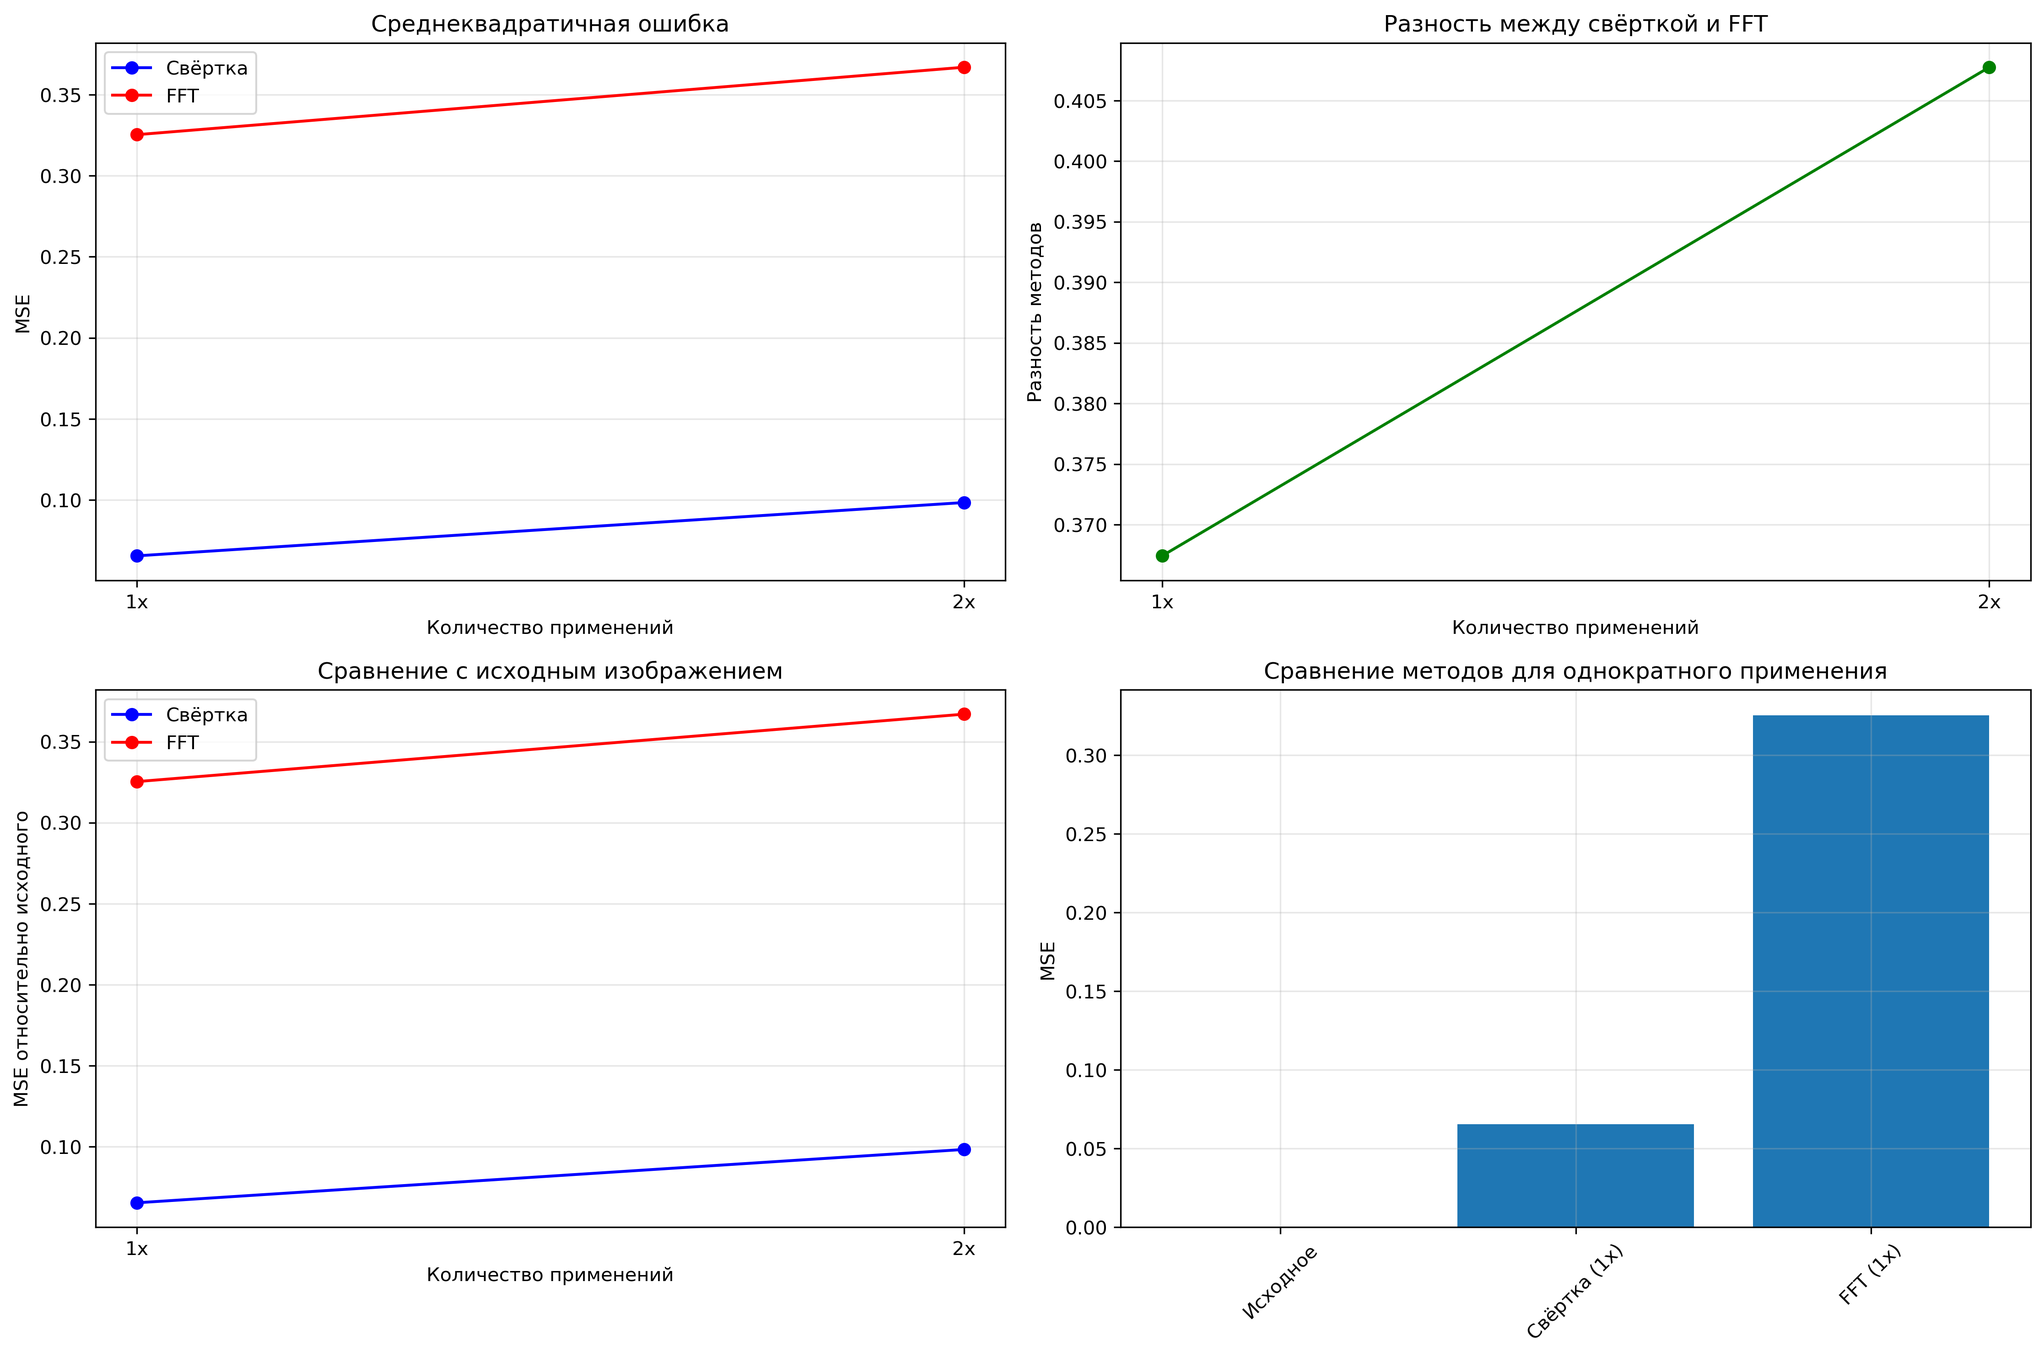
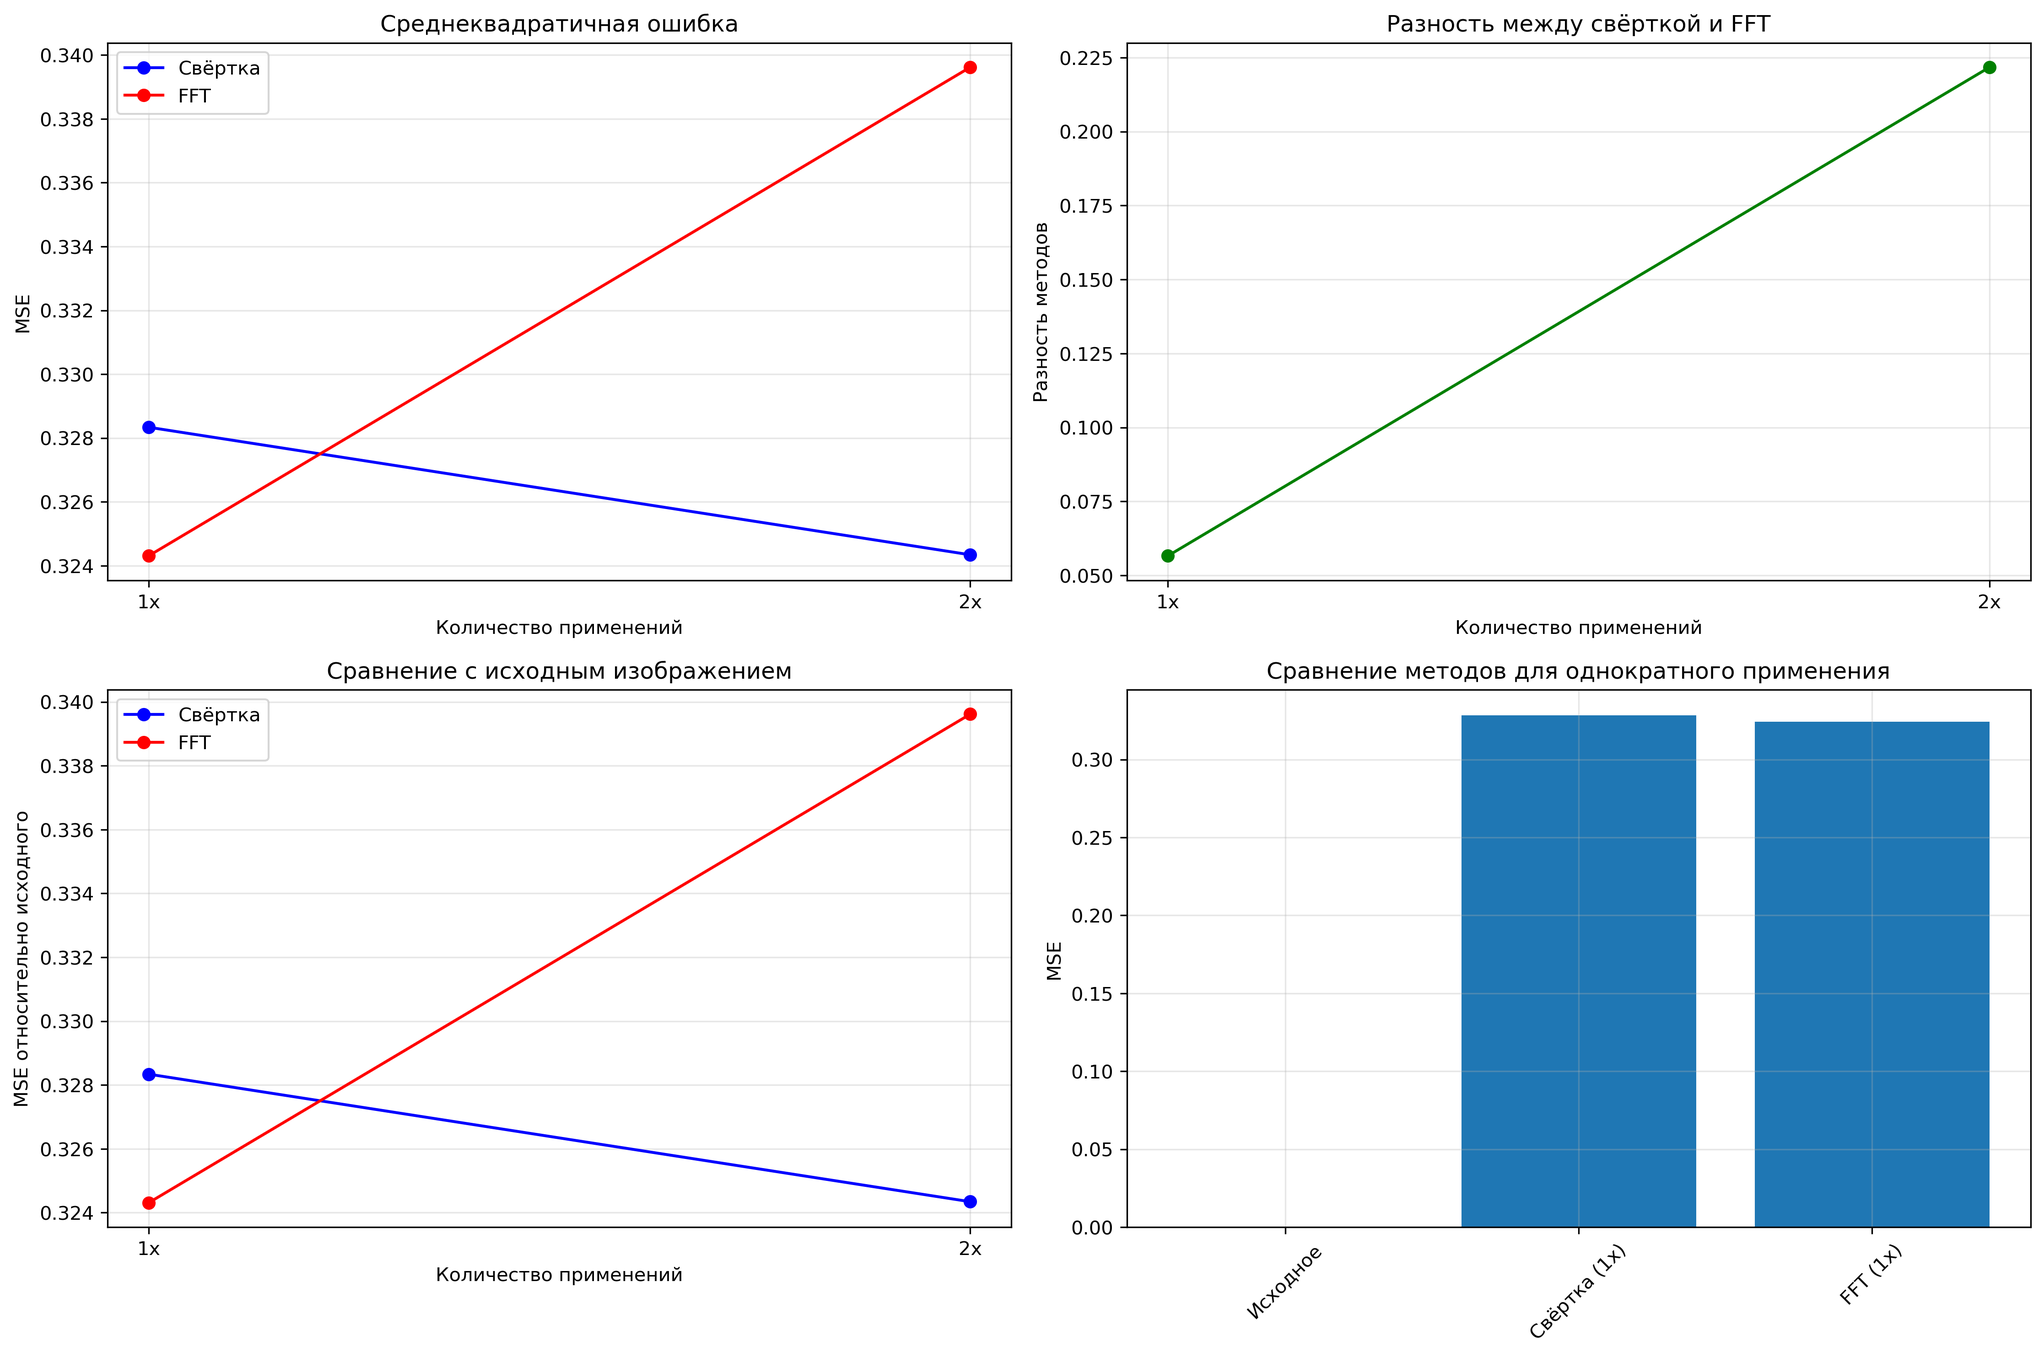
Lab 6 with small optimus

diff --git a/frequency_methods/lab6/python/task2_image_blurring.py b/frequency_methods/lab6/python/task2_image_blurring.py
@@ -64,9 +64,17 @@ def create_gaussian_kernel(n):
 def image_blurring():
     """Размытие изображений"""
     
-    # Создаем тестовое изображение
-    print("Создание тестового изображения...")
-    original_image = create_test_image()
+    # Загружаем готовое изображение
+    print("Загрузка исходного изображения...")
+    try:
+        from PIL import Image
+        img_path = '../images/task2/original_image.png'
+        img_pil = Image.open(img_path).convert('L')
+        original_image = np.array(img_pil) / 255.0
+        print(f"Загружено изображение размером {original_image.shape}")
+    except FileNotFoundError:
+        print("Файл original_image.png не найден, создаем тестовое изображение...")
+        original_image = create_test_image()
     
     # Сохраняем исходное изображение
     plt.figure(figsize=(8, 6))
@@ -113,11 +121,11 @@ def image_blurring():
     gaussian_results = {}
     
     for n in n_values:
-        # Блочное размытие
-        block_results[n] = ndimage.convolve(original_image, block_kernels[n], mode='constant', cval=0)
+        # Блочное размытие (используем 'wrap' для циклической свертки, аналогичной FFT)
+        block_results[n] = ndimage.convolve(original_image, block_kernels[n], mode='wrap')
         
         # Гауссовское размытие
-        gaussian_results[n] = ndimage.convolve(original_image, gaussian_kernels[n], mode='constant', cval=0)
+        gaussian_results[n] = ndimage.convolve(original_image, gaussian_kernels[n], mode='wrap')
     
     # Визуализация результатов свёртки
     plt.figure(figsize=(15, 10))
@@ -151,39 +159,28 @@ def image_blurring():
     fft_original = fft2(original_image)
     
     for n in n_values:
-        # Создаем ядра того же размера, что и изображение
+        # Создаем ядра того же размера, что и изображение (для циклической свертки)
         h, w = original_image.shape
-        k, l = n, n
         
-        # Создаем расширенные ядра
-        block_kernel_extended = np.zeros((h + k - 1, w + l - 1))
-        gaussian_kernel_extended = np.zeros((h + k - 1, w + l - 1))
+        # Создаем ядра размером с изображение
+        block_kernel_full = np.zeros((h, w))
+        gaussian_kernel_full = np.zeros((h, w))
         
-        # Размещаем ядра в центре
-        start_h = (h + k - 1 - k) // 2
-        start_w = (w + l - 1 - l) // 2
-        
-        block_kernel_extended[start_h:start_h+k, start_w:start_w+l] = block_kernels[n]
-        gaussian_kernel_extended[start_h:start_h+k, start_w:start_w+l] = gaussian_kernels[n]
+        # Размещаем ядра в левом верхнем углу (для циклической свертки)
+        block_kernel_full[:n, :n] = block_kernels[n]
+        gaussian_kernel_full[:n, :n] = gaussian_kernels[n]
         
         # Фурье-образы ядер
-        fft_block_kernel = fft2(block_kernel_extended)
-        fft_gaussian_kernel = fft2(gaussian_kernel_extended)
+        fft_block_kernel = fft2(block_kernel_full)
+        fft_gaussian_kernel = fft2(gaussian_kernel_full)
         
-        # Создаем Фурье-образ изображения того же размера
-        fft_original_extended = fft2(original_image, s=(h + k - 1, w + l - 1))
-        
-        # Поэлементное умножение
-        fft_block_result = fft_original_extended * fft_block_kernel
-        fft_gaussian_result = fft_original_extended * fft_gaussian_kernel
+        # Поэлементное умножение в частотной области (циклическая свертка)
+        fft_block_result = fft_original * fft_block_kernel
+        fft_gaussian_result = fft_original * fft_gaussian_kernel
         
         # Обратное преобразование
-        block_fft_result = np.real(ifft2(fft_block_result))
-        gaussian_fft_result = np.real(ifft2(fft_gaussian_result))
-        
-        # Обрезаем до исходного размера
-        block_fft_results[n] = block_fft_result[:h, :w]
-        gaussian_fft_results[n] = gaussian_fft_result[:h, :w]
+        block_fft_results[n] = np.real(ifft2(fft_block_result))
+        gaussian_fft_results[n] = np.real(ifft2(fft_gaussian_result))
     
     # Визуализация результатов Фурье-метода
     plt.figure(figsize=(15, 10))
@@ -210,45 +207,57 @@ def image_blurring():
     
     # Сравнение методов
     print("Сравнение методов размытия...")
-    plt.figure(figsize=(20, 15))
+    plt.figure(figsize=(25, 20))
+    
+    # Исходное изображение
+    plt.subplot(6, 6, 1)
+    plt.imshow(original_image, cmap='gray', vmin=0, vmax=1)
+    plt.title('Исходное изображение', fontsize=14, fontweight='bold')
+    plt.axis('off')
     
     for i, n in enumerate(n_values):
-        # Блочное размытие
-        plt.subplot(3, 4, i+1)
-        plt.imshow(block_results[n], cmap='gray')
-        plt.title(f'Блочное размытие (свёртка) n={n}')
+        row_offset = i * 2
+        
+        # Блочное размытие - свертка
+        plt.subplot(6, 6, 7 + row_offset * 6)
+        plt.imshow(block_results[n], cmap='gray', vmin=0, vmax=1)
+        plt.title(f'Блочное (свёртка) n={n}', fontsize=12)
         plt.axis('off')
         
-        plt.subplot(3, 4, i+5)
-        plt.imshow(block_fft_results[n], cmap='gray')
-        plt.title(f'Блочное размытие (FFT) n={n}')
+        # Блочное размытие - FFT
+        plt.subplot(6, 6, 8 + row_offset * 6)
+        plt.imshow(block_fft_results[n], cmap='gray', vmin=0, vmax=1)
+        plt.title(f'Блочное (FFT) n={n}', fontsize=12)
         plt.axis('off')
         
-        # Разность методов
+        # Разность блочного размытия
         diff_block = np.abs(block_results[n] - block_fft_results[n])
-        plt.subplot(3, 4, i+9)
-        plt.imshow(diff_block, cmap='hot')
-        plt.title(f'Разность блочного n={n}')
-        plt.colorbar()
+        max_diff_block = np.max(diff_block)
+        plt.subplot(6, 6, 9 + row_offset * 6)
+        im_diff = plt.imshow(diff_block, cmap='hot', vmin=0, vmax=max_diff_block)
+        plt.title(f'Разность блочного\nМакс: {max_diff_block:.6f}', fontsize=10)
+        plt.colorbar(im_diff, fraction=0.046)
         plt.axis('off')
         
-        # Гауссовское размытие
-        plt.subplot(3, 4, i+2)
-        plt.imshow(gaussian_results[n], cmap='gray')
-        plt.title(f'Гауссовское размытие (свёртка) n={n}')
+        # Гауссовское размытие - свертка
+        plt.subplot(6, 6, 10 + row_offset * 6)
+        plt.imshow(gaussian_results[n], cmap='gray', vmin=0, vmax=1)
+        plt.title(f'Гауссовское (свёртка) n={n}', fontsize=12)
         plt.axis('off')
         
-        plt.subplot(3, 4, i+6)
-        plt.imshow(gaussian_fft_results[n], cmap='gray')
-        plt.title(f'Гауссовское размытие (FFT) n={n}')
+        # Гауссовское размытие - FFT
+        plt.subplot(6, 6, 11 + row_offset * 6)
+        plt.imshow(gaussian_fft_results[n], cmap='gray', vmin=0, vmax=1)
+        plt.title(f'Гауссовское (FFT) n={n}', fontsize=12)
         plt.axis('off')
         
-        # Разность методов
+        # Разность гауссовского размытия
         diff_gaussian = np.abs(gaussian_results[n] - gaussian_fft_results[n])
-        plt.subplot(3, 4, i+10)
-        plt.imshow(diff_gaussian, cmap='hot')
-        plt.title(f'Разность гауссовского n={n}')
-        plt.colorbar()
+        max_diff_gaussian = np.max(diff_gaussian)
+        plt.subplot(6, 6, 12 + row_offset * 6)
+        im_diff_g = plt.imshow(diff_gaussian, cmap='hot', vmin=0, vmax=max_diff_gaussian)
+        plt.title(f'Разность гауссовского\nМакс: {max_diff_gaussian:.6f}', fontsize=10)
+        plt.colorbar(im_diff_g, fraction=0.046)
         plt.axis('off')
     
     plt.tight_layout()

diff --git a/frequency_methods/lab6/python/task3_sharpening.py b/frequency_methods/lab6/python/task3_sharpening.py
@@ -64,9 +64,17 @@ def create_sharpening_kernel():
 def image_sharpening():
     """Увеличение резкости изображений"""
     
-    # Создаем тестовое изображение
-    print("Создание тестового изображения...")
-    original_image = create_test_image()
+    # Загружаем готовое изображение
+    print("Загрузка исходного изображения...")
+    try:
+        from PIL import Image
+        img_path = '../images/task3/original_image.png'
+        img_pil = Image.open(img_path).convert('L')
+        original_image = np.array(img_pil) / 255.0
+        print(f"Загружено изображение размером {original_image.shape}")
+    except FileNotFoundError:
+        print("Файл original_image.png не найден, создаем тестовое изображение...")
+        original_image = create_test_image()
     
     # Сохраняем исходное изображение
     plt.figure(figsize=(8, 6))
@@ -93,11 +101,11 @@ def image_sharpening():
     
     # Применяем увеличение резкости с помощью свёртки
     print("Применение увеличения резкости с помощью свёртки...")
-    sharpened_conv = ndimage.convolve(original_image, sharpening_kernel, mode='constant', cval=0)
+    sharpened_conv = ndimage.convolve(original_image, sharpening_kernel, mode='wrap')
     
     # Применяем увеличение резкости несколько раз
-    sharpened_conv_2x = ndimage.convolve(sharpened_conv, sharpening_kernel, mode='constant', cval=0)
-    sharpened_conv_3x = ndimage.convolve(sharpened_conv_2x, sharpening_kernel, mode='constant', cval=0)
+    sharpened_conv_2x = ndimage.convolve(sharpened_conv, sharpening_kernel, mode='wrap')
+    sharpened_conv_3x = ndimage.convolve(sharpened_conv_2x, sharpening_kernel, mode='wrap')
     
     # Визуализация результатов свёртки
     plt.figure(figsize=(15, 10))

diff --git a/frequency_methods/lab6/python/task4_edge_detection.py b/frequency_methods/lab6/python/task4_edge_detection.py
@@ -78,9 +78,17 @@ def create_edge_detection_kernel():
 def edge_detection():
     """Выделение краёв изображений"""
     
-    # Создаем тестовое изображение
-    print("Создание тестового изображения...")
-    original_image = create_test_image()
+    # Загружаем готовое изображение
+    print("Загрузка исходного изображения...")
+    try:
+        from PIL import Image
+        img_path = '../images/task4/original_image.png'
+        img_pil = Image.open(img_path).convert('L')
+        original_image = np.array(img_pil) / 255.0
+        print(f"Загружено изображение размером {original_image.shape}")
+    except FileNotFoundError:
+        print("Файл original_image.png не найден, создаем тестовое изображение...")
+        original_image = create_test_image()
     
     # Сохраняем исходное изображение
     plt.figure(figsize=(8, 6))
@@ -107,13 +115,13 @@ def edge_detection():
     
     # Применяем выделение краёв с помощью свёртки
     print("Применение выделения краёв с помощью свёртки...")
-    edge_conv = ndimage.convolve(original_image, edge_kernel, mode='constant', cval=0)
+    edge_conv = ndimage.convolve(original_image, edge_kernel, mode='wrap')
     
     # Нормализуем результат
     edge_conv_normalized = np.clip(edge_conv, 0, 1)
     
     # Применяем выделение краёв несколько раз
-    edge_conv_2x = ndimage.convolve(edge_conv_normalized, edge_kernel, mode='constant', cval=0)
+    edge_conv_2x = ndimage.convolve(edge_conv_normalized, edge_kernel, mode='wrap')
     edge_conv_2x_normalized = np.clip(edge_conv_2x, 0, 1)
     
     # Визуализация результатов свёртки

diff --git a/frequency_methods/lab6/python/task1_periodic_filtering.py b/frequency_methods/lab6/python/task1_periodic_filtering.py
@@ -43,9 +43,17 @@ def create_test_image_with_periodicity():
 def periodic_filtering():
     """Фильтрация изображений с периодичностью"""
     
-    # Создаем тестовое изображение с периодичностью
-    print("Создание тестового изображения с периодичностью...")
-    original_image = create_test_image_with_periodicity()
+    # Загружаем готовое изображение
+    print("Загрузка исходного изображения...")
+    try:
+        # Загружаем изображение из файла
+        img_path = '../images/task1/original_image.png'
+        img_pil = Image.open(img_path).convert('L')  # Конвертируем в градации серого
+        original_image = np.array(img_pil) / 255.0  # Нормализуем к [0, 1]
+        print(f"Загружено изображение размером {original_image.shape}")
+    except FileNotFoundError:
+        print("Файл original_image.png не найден, создаем тестовое изображение...")
+        original_image = create_test_image_with_periodicity()
     
     # Сохраняем исходное изображение
     plt.figure(figsize=(10, 8))
